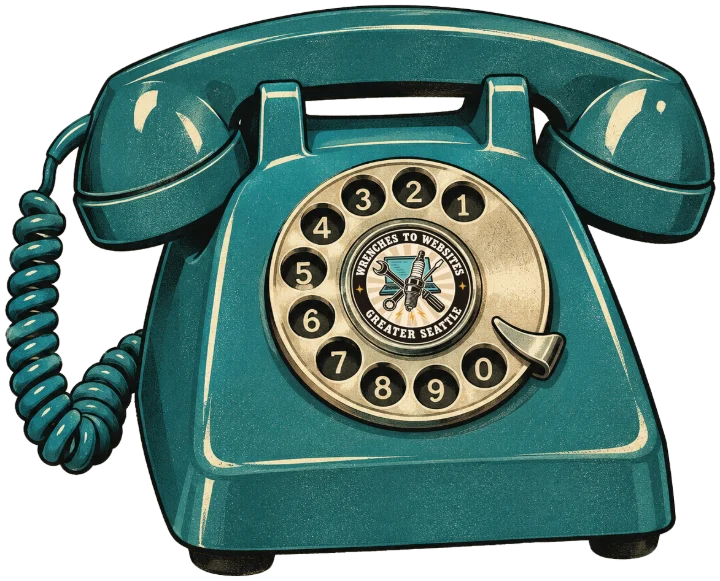
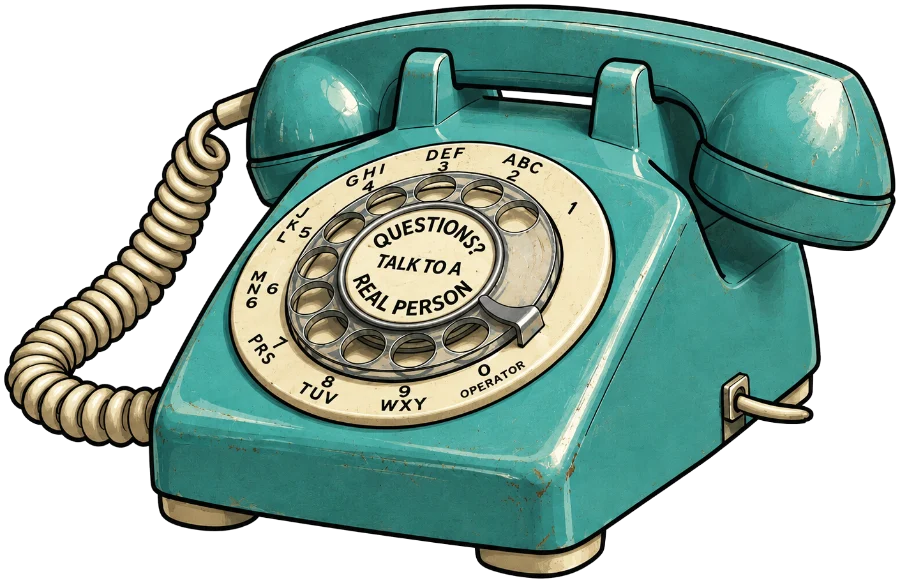
Add a paint shop to the Finish Line and a new FAQ phone
After the first race, a Paint Shop card in the race's lower-left corner lets visitors cycle five paint jobs on the hot rod and race the one they pick. The section lowers only as much as needed so the card never covers the road. The FAQ heading now shows a rotary phone whose dial reads Questions? Talk to a real person, sized so the dial can be read.

diff --git a/script.js b/script.js
@@ -451,7 +451,7 @@
 (function () {
   var root = document.querySelector('.finish');
   if (!root) return;
-  var strip = root.querySelector('.strip'), again = root.querySelector('.finish-again');
+  var strip = root.querySelector('.strip'), shop = root.querySelector('.paint-shop'), again = root.querySelector('.paint-race');
   var NS = 'http://www.w3.org/2000/svg';
   var K = 0.7;                                       // overall size of the scene's pieces
   var CW = 300 * K, CH = CW * 499 / 900;
@@ -538,7 +538,7 @@
   svg += '<g class="far-pole">' + pole(fb) + '</g>';
   svg += treeSvg;
   svg += '<g class="smoke"></g>';
-  svg += '<g class="car"><g class="car-tilt"><g transform="scale(-1,1)"><image href="images/ratrod.webp?v=2" x="' + (-(CW - REAR[0])).toFixed(1) + '" y="' + (-REAR[1]).toFixed(1) + '" width="' + CW + '" height="' + CH.toFixed(1) + '"/></g></g></g>';
+  svg += '<g class="car"><g class="car-tilt"><g transform="scale(-1,1)"><image href="images/ratrod-classic.webp?v=1" x="' + (-(CW - REAR[0])).toFixed(1) + '" y="' + (-REAR[1]).toFixed(1) + '" width="' + CW + '" height="' + CH.toFixed(1) + '"/></g></g></g>';
   var slope = (fb[1] - nb[1]) / (fb[0] - nb[0]);
   var ban = 'M' + pt([nb[0], nb[1] - POLE]) + 'L' + pt([fb[0], fb[1] - POLE]) + 'L' + pt([fb[0], fb[1] - POLE + BAN]) + 'L' + pt([nb[0], nb[1] - POLE + BAN]) + 'Z';
   var len = fb[0] - nb[0];
@@ -572,14 +572,14 @@
     timers.forEach(clearTimeout); timers = []; cancelAnimationFrame(raf);
     smoke.innerHTML = ''; puffs = [];
     [].forEach.call(el.querySelectorAll('[class*="lt-"]'), function (l) { l.classList.remove('on'); });
-    root.classList.remove('is-done', 'is-parked'); again.classList.remove('is-ready');
+    root.classList.remove('is-done', 'is-parked');
     place(S0, 0);
   };
   var park = function () {
     reset(); place(FIN + 0.75, 0);
     light(3);
     root.classList.add('is-parked', 'is-done');
-    again.textContent = 'Run the race'; again.classList.add('is-ready');
+    showShop();
   };
 
   var addPuff = function (s, born) {
@@ -615,7 +615,7 @@
         if (d < 1000 && now - lastPuff > 40) { addPuff(s, now); lastPuff = now; }
         if (!crossed && s + 1 >= FIN) {
           crossed = true; root.classList.add('is-done');
-          later(function () { again.textContent = 'Run it again'; again.classList.add('is-ready'); }, 900);
+          later(showShop, 900);
         }
       }
       drawPuffs(now);
@@ -623,7 +623,49 @@
     })(t0);
   };
 
-  again.addEventListener('click', race);
+  // paint shop: cycle the paint jobs (same car, same crop, so the road geometry fits every one)
+  var PAINTS = [['classic', 'Classic Flames'], ['long-flames', 'Long Flames'], ['pinstripe', 'Red Pinstripe'],
+    ['scrollwork', 'Cream Scrollwork'], ['flames-pinstripe', 'Flames & Pinstripes']];
+  var paintSrc = function (i) { return 'images/ratrod-' + PAINTS[i][0] + '.webp?v=1'; };
+  var carImg = el.querySelector('.car image'), thumb = shop.querySelector('.paint-thumb');
+  var label = shop.querySelector('.paint-label'), count = shop.querySelector('.paint-count');
+  var pick = 0;
+  var showPaint = function () {
+    thumb.src = paintSrc(pick);
+    label.textContent = PAINTS[pick][1]; count.textContent = (pick + 1) + ' of ' + PAINTS.length;
+    if (root.classList.contains('is-parked')) carImg.setAttribute('href', paintSrc(pick));   // parked car (no motion) shows it right away
+  };
+  var showShop = function () {
+    if (!shop.classList.contains('is-ready')) {
+      PAINTS.forEach(function (p, i) { if (i) { var im = new Image(); im.src = paintSrc(i); } });   // warm up the other paint jobs
+      showPaint();
+    }
+    shop.classList.add('is-ready');
+    fitShop();
+  };
+  // keep the card in the corner under the road: lower the section only as far as needed to clear the road's shoulder
+  var fitShop = function () {
+    if (!shop.classList.contains('is-ready')) return;
+    strip.style.marginBottom = '';
+    var svgBox = el.getBoundingClientRect(), vb = el.viewBox.baseVal, sc = svgBox.width / vb.width;
+    var cardRight = (shop.getBoundingClientRect().right - svgBox.left) / sc;              // in scene units
+    var s = (cardRight - O[0] + 0.45 * A[0]) / F[0], edge = P(s, -0.45)[1];               // bottom of the near shoulder at that x
+    var roadPx = svgBox.top + (edge - vb.y) * sc;
+    var base = parseFloat(getComputedStyle(strip).marginBottom) || 0;
+    var cardTop = svgBox.bottom + base - shop.offsetHeight - parseFloat(getComputedStyle(shop).bottom);
+    var short = roadPx + 10 - cardTop;                                                     // how far it would overlap
+    if (short > 0) strip.style.marginBottom = (base + short) + 'px';
+  };
+  var fitT = 0;
+  window.addEventListener('resize', function () { clearTimeout(fitT); fitT = setTimeout(fitShop, 150); });
+  var step = function (d) { pick = (pick + d + PAINTS.length) % PAINTS.length; showPaint(); };
+  shop.querySelector('.paint-prev').addEventListener('click', function () { step(-1); });
+  shop.querySelector('.paint-next').addEventListener('click', function () { step(1); });
+  again.addEventListener('click', function () {
+    carImg.setAttribute('href', paintSrc(pick));
+    var go = function () { race(); };
+    var im = new Image(); im.onload = im.onerror = go; im.src = paintSrc(pick);    // swap paint once it's loaded, then race
+  });
   place(S0, 0);
   if (reduce || paused()) { park(); return; }
   if ('IntersectionObserver' in window) {

diff --git a/styles.css b/styles.css
@@ -2208,9 +2208,9 @@ body { background: var(--white-warm); }
 @media (min-width: 52.01em) and (max-width: 68em) { .lede-pennant { right: -1.2em; width: calc(100% + 3.1em); } }
 
 /* ---------- FAQ: a rotary phone beside the heading ---------- */
-.faq-head { display: grid; grid-template-columns: minmax(0, 1fr) minmax(0, 15rem); gap: 1rem 2rem; align-items: center; }
+.faq-head { display: grid; grid-template-columns: minmax(0, 1fr) minmax(0, 21rem); gap: 1rem 2rem; align-items: center; }   /* wide enough to read the phone's dial */
 .faq-phone { display: block; width: 100%; height: auto; transform: rotate(-4deg); filter: drop-shadow(5px 6px 0 rgba(34, 31, 27, 0.18)); }
-@media (max-width: 40em) { .faq-head { grid-template-columns: minmax(0, 1fr) minmax(0, 8.5rem); gap: 0.75rem; } }
+@media (max-width: 40em) { .faq-head { grid-template-columns: minmax(0, 1fr); gap: 0.75rem; } .faq-phone { width: min(17rem, 85%); margin: 0 auto; } }
 
 /* desktop: a second, smaller web (no spider) in the top-left corner, so the web on the left on phones isn't a surprise */
 .corner-web--small { display: none; }
@@ -2325,3 +2325,26 @@ body { background: var(--white-warm); }
 /* Hero: even out the gap between "New-school code." and the lede (owner's nudge: line down 3px, lede up 1px) */
 .hero h1 .accent { position: relative; top: 3px; }
 .hero-copy > .lede { margin-top: -1px; }
+
+/* Finish Line paint shop: after the first race, cycle the rat rod's paint jobs and send the chosen one down the strip.
+   It sits in the race's bottom-left corner, under the road; script.js lowers the section just enough that it never touches the road. */
+.finish { position: relative; }
+.paint-shop { position: absolute; left: max(1rem, 2.5vw); bottom: 1rem; z-index: 2; width: min(21rem, calc(100% - 2rem));
+  display: none; grid-template-columns: minmax(0, 11.5rem) 1fr; grid-template-areas: "title title" "pick name" "pick race";
+  column-gap: 0.75rem; align-items: center; padding: 0.55rem 0.75rem 0.65rem; text-align: left;
+  background: #2b2723; border: 2px solid var(--paper); border-radius: 0.8rem; box-shadow: 4px 4px 0 rgba(0, 0, 0, .45); }
+.paint-shop.is-ready { display: grid; animation: shop-in .45s ease-out; }   /* takes no room until the first race is over */
+@keyframes shop-in { from { opacity: 0; transform: translateY(6px); } to { opacity: 1; transform: none; } }
+.paint-shop-title { grid-area: title; margin: 0 0 0.15rem; font: 700 0.75rem/1 var(--font-mono); letter-spacing: 0.12em; text-transform: uppercase; color: var(--yellow-on-ink); }
+.paint-pick { grid-area: pick; display: grid; grid-template-columns: auto 1fr auto; align-items: center; gap: 0.3rem; }
+.paint-thumb { display: block; width: 100%; height: auto; transform: scaleX(-1); filter: drop-shadow(0 3px 0 rgba(0, 0, 0, .35)); }
+.paint-prev, .paint-next { width: 1.9rem; height: 1.9rem; padding: 0; cursor: pointer; border-radius: 50%;
+  font: 700 0.75rem/1 var(--font-body); color: var(--ink); background: var(--paper); border: 2px solid var(--ink); box-shadow: 0 2px 0 #000; }
+.paint-prev:hover, .paint-next:hover { background: #fbe39b; }
+.paint-name { grid-area: name; margin: 0; align-self: end; font: 700 0.95rem/1.3 var(--font-body); color: var(--paper); }
+.paint-count { display: block; font: 400 0.75rem/1.3 var(--font-mono); color: #cfc6b4; }
+.paint-race { grid-area: race; justify-self: start; align-self: start; margin-top: 0.4rem; padding: 0.55rem 1.15rem; cursor: pointer;
+  font: 700 0.9375rem/1 var(--font-body); color: var(--ink); background: var(--yellow-on-ink); border: 2px solid var(--paper); border-radius: 999px; }
+.paint-race:hover { background: #fbe39b; }
+.paint-prev:focus-visible, .paint-next:focus-visible, .paint-race:focus-visible { outline: 3px solid var(--yellow-on-ink); outline-offset: 3px; }
+@media (prefers-reduced-motion: reduce) { .paint-shop.is-ready { animation: none; } }

diff --git a/index.html b/index.html
@@ -14,7 +14,7 @@
   <link rel="preload" href="fonts/dm-sans-normal-400-700.woff2" as="font" type="font/woff2" crossorigin>
   <link rel="preload" href="fonts/shrikhand-normal-400.woff2" as="font" type="font/woff2" crossorigin>
   <link rel="preload" href="fonts/pirata-one-normal-400.woff2" as="font" type="font/woff2" crossorigin>
-  <link rel="stylesheet" href="styles.css?v=156">
+  <link rel="stylesheet" href="styles.css?v=157">
 <script>try{var d=document.documentElement,rm=matchMedia("(prefers-reduced-motion: reduce)").matches,pz=localStorage.getItem("motion")==="paused";if(pz)d.classList.add("motion-paused");if(!rm&&!pz)d.classList.add("room-intro")}catch(e){}</script>
 </head>
 <body>
@@ -653,7 +653,7 @@
             <p class="eyebrow">FAQ</p>
             <h2 id="faq-title">Frequently asked questions</h2>
           </div>
-          <img class="faq-phone" src="images/rotary-phone.webp?v=1" width="720" height="581" loading="lazy" decoding="async" alt="Illustration: a teal rotary phone with the Wrenches to Websites seal on its dial">
+          <img class="faq-phone" src="images/rotary-phone.webp?v=2" width="900" height="583" loading="lazy" decoding="async" alt="Illustration: a teal rotary phone whose dial reads &quot;Questions? Talk to a real person&quot;">
         </div>
         <div class="faq-list">
           <details class="faq"><summary>How much does a website cost?</summary>
@@ -858,11 +858,20 @@
       <h2 class="finish-title" id="finish-title">The Finish Line!</h2>
       <p class="finish-sub">Thanks for reading all the way to the end.</p>
       <p class="finish-sub">Hope to work with you soon.</p>
-      <button class="finish-again" type="button">Run it again</button>
     </div>
     <div class="strip"></div>
+    <div class="paint-shop" role="group" aria-labelledby="paint-shop-title">
+      <p class="paint-shop-title" id="paint-shop-title">Paint shop</p>
+      <div class="paint-pick">
+        <button class="paint-prev" type="button" aria-label="Previous paint job"><span aria-hidden="true">&#9664;</span></button>
+        <img class="paint-thumb" width="900" height="499" alt="">
+        <button class="paint-next" type="button" aria-label="Next paint job"><span aria-hidden="true">&#9654;</span></button>
+      </div>
+      <p class="paint-name" aria-live="polite"><span class="paint-label">Classic Flames</span> <span class="paint-count">1 of 5</span></p>
+      <button class="paint-race" type="button">Race it!</button>
+    </div>
   </section>
 
-  <script src="script.js?v=37" defer></script>
+  <script src="script.js?v=38" defer></script>
 </body>
 </html>
